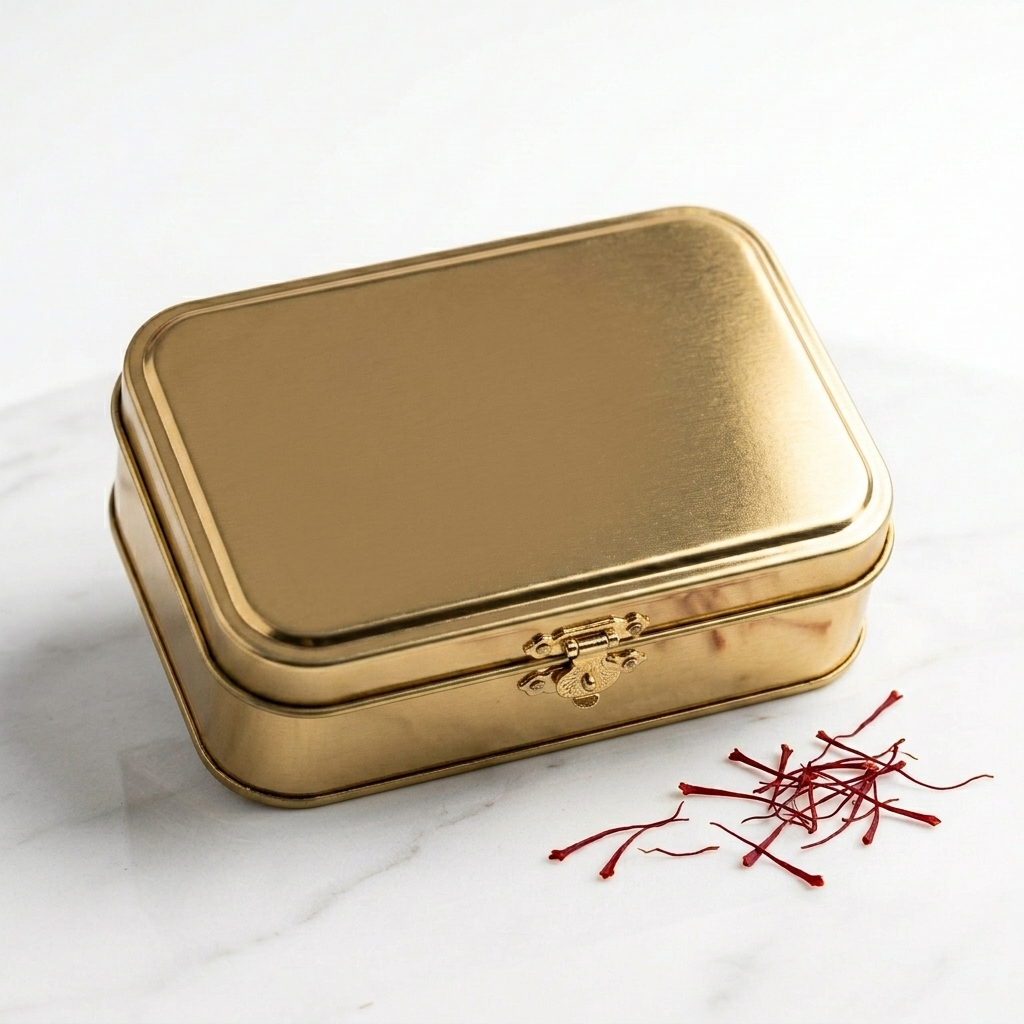
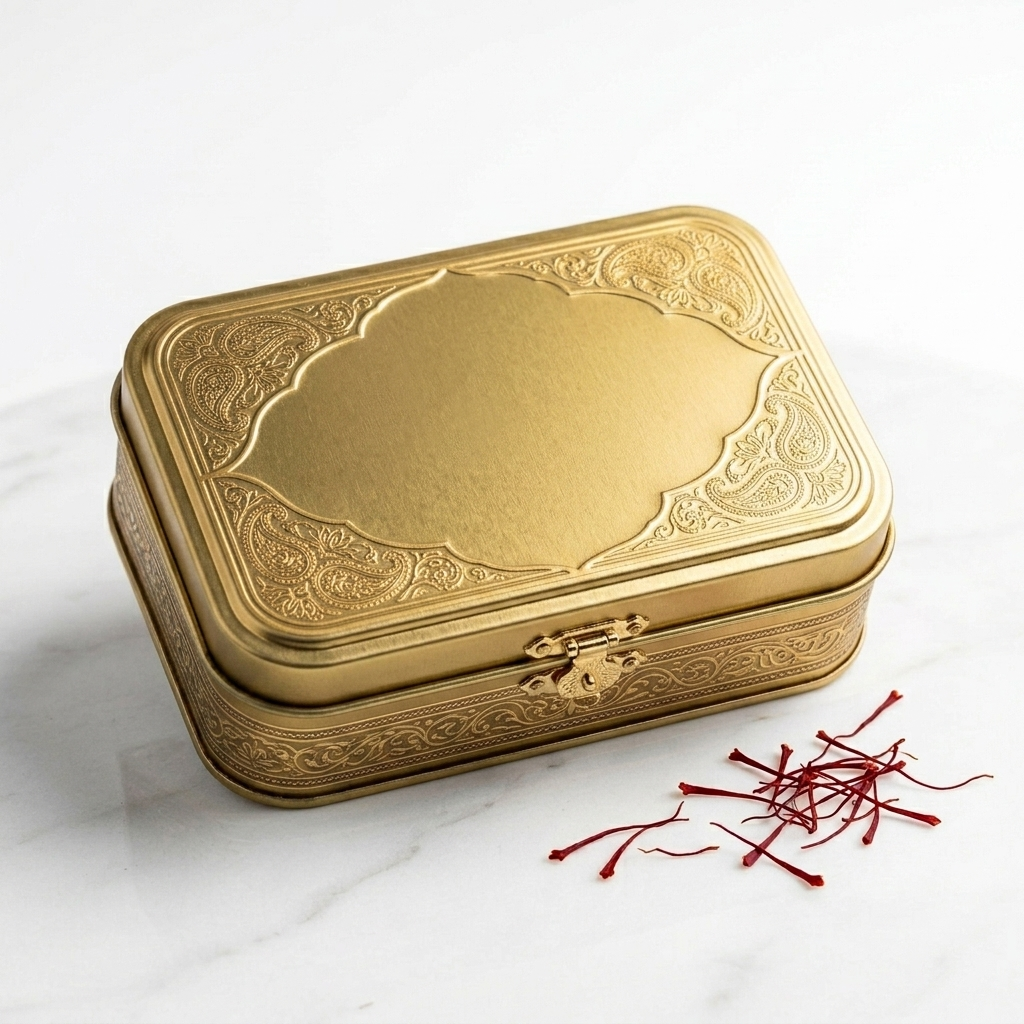
Optimize hero video transparency, replace saffron gift tin image with unbranded ornamental design, replace emoji placeholders with actual product images and alt tags on all gift landing pages

Changed region(s): [[0.0938, 0.1875, 0.875, 0.7812]]

diff --git a/src/app/diwali-gift-kashmir/page.tsx b/src/app/diwali-gift-kashmir/page.tsx
@@ -1,5 +1,6 @@
 import type { Metadata } from "next";
 import Link from "next/link";
+import Image from "next/image";
 export const metadata: Metadata = {
   title: "Diwali Gifts from Kashmir | Kashmir Essence — Saffron, Dry Fruits & Honey Gift Sets",
   description: "Premium Diwali gifts from Kashmir — GI-Tagged saffron tins, Mamra almond hampers, Kashmir honey and dry fruit gift sets. The most meaningful Diwali gifts. Shipping India & worldwide.",
@@ -21,15 +22,17 @@ export default function DiwaliGiftKashmir() {
         <h2 className="text-2xl font-black text-maroon-950 mb-8 text-center">Diwali Gift Collections</h2>
         <div className="grid sm:grid-cols-2 md:grid-cols-3 gap-5">
           {[
-            ["✨", "Kashmir Saffron Gift Tin", "The statement gift — 5g Mongra saffron in a premium tin. The luxury Diwali gift that anyone will remember.", "₹4,549", "/products/kashmiri-saffron-gift-tin"],
-            ["🎁", "Kashmir Dry Fruit Gift Box (Classic)", "Mamra almonds + Kashmiri walnuts + Kashmir saffron — the complete premium festive hamper.", "₹4,099", "/products/kashmiri-dry-fruit-gift-box"],
-            ["🪨", "Mamra Almond Box", "250g premium Mamra almonds in Diwali gift packaging. The gold standard Diwali dry fruit gift.", "₹700", "/products/mamra-almonds-premium"],
-            ["🍯", "Raw Kashmir Honey", "500g raw alpine honey in glass jar — a pure, wholesome Diwali gift.", "₹1,000", "/products/kashmiri-wildflower-honey"],
-            ["🫖", "Kahwa Gift Set", "Premium Kashmiri Kahwa blend — the warmth of Kashmir in a cup. Perfect gifting.", "₹399", "/products/kashmiri-kahwa-blend"],
-            ["🏔️", "Himalayan Shilajit", "A bold wellness gift — pure Himalayan Shilajit resin for health-conscious recipients.", "₹1,299", "/products/himalayan-shilajit-resin"]
-          ].map(([e,n,d,p,l])=>(
+            ["/images/saffron-gift-tin.jpg", "Kashmir Saffron Gift Tin (5g)", "The statement gift — 5g Mongra saffron in a premium tin. The luxury Diwali gift that anyone will remember.", "₹4,549", "/products/kashmiri-saffron-gift-tin"],
+            ["/images/dry-fruit-gift-box.jpg", "Kashmir Dry Fruit Gift Box (Classic)", "Mamra almonds + Kashmiri walnuts + Kashmir saffron — the complete premium festive hamper.", "₹4,099", "/products/kashmiri-dry-fruit-gift-box"],
+            ["/images/mamra-almonds-250.jpg", "Mamra Almond Box", "250g premium Mamra almonds in Diwali gift packaging. The gold standard Diwali dry fruit gift.", "₹700", "/products/mamra-almonds-premium"],
+            ["/images/kashmir-wildflower-honey.jpg", "Raw Kashmir Honey", "500g raw alpine honey in glass jar — a pure, wholesome Diwali gift.", "₹1,000", "/products/kashmiri-wildflower-honey"],
+            ["/images/kashmiri-kahwa-blend.jpg", "Kahwa Gift Set", "Premium Kashmiri Kahwa blend — the warmth of Kashmir in a cup. Perfect gifting.", "₹399", "/products/kashmiri-kahwa-blend"],
+            ["/images/shilajit-resin.jpg", "Himalayan Shilajit", "A bold wellness gift — pure Himalayan Shilajit resin for health-conscious recipients.", "₹1,299", "/products/himalayan-shilajit-resin"]
+          ].map(([img,n,d,p,l])=>(
             <div key={String(n)} className="bg-white border border-ivory-200 rounded-3xl p-6 shadow-sm hover:shadow-lg hover:-translate-y-0.5 transition-all flex flex-col">
-              <span className="text-5xl mb-4 block text-center">{String(e)}</span>
+              <div className="relative h-48 w-full rounded-2xl overflow-hidden mb-4 bg-ivory-100 border border-ivory-200">
+                <Image src={String(img)} alt={`Premium ${String(n)} from Kashmir`} fill className="object-cover" sizes="(max-width: 768px) 100vw, 33vw" priority />
+              </div>
               <h3 className="font-extrabold text-maroon-950 text-base mb-2 text-center">{String(n)}</h3>
               <p className="text-ink-500 text-xs leading-relaxed mb-4 text-center flex-1">{String(d)}</p>
               <p className="text-xl font-black text-maroon-950 text-center mb-4">{String(p)}</p>

diff --git a/src/app/eid-gift-kashmir/page.tsx b/src/app/eid-gift-kashmir/page.tsx
@@ -1,5 +1,6 @@
 import type { Metadata } from "next";
 import Link from "next/link";
+import Image from "next/image";
 
 export const metadata: Metadata = {
   title: "Eid Gifts from Kashmir | Kashmir Essence — Saffron, Shilajit & Dry Fruit Gift Sets",
@@ -27,15 +28,17 @@ export default function EidGiftKashmir() {
         <h2 className="text-2xl font-black text-maroon-950 mb-8 text-center">Popular Eid Gift Options</h2>
         <div className="grid sm:grid-cols-2 md:grid-cols-3 gap-5">
           {[
-            { emoji: "✨", name: "Kashmiri Saffron Gift Tin (5g)", desc: "5g Mongra saffron in a premium velvet-lined gold tin. The ultimate luxury Eid gift, cherished for its purity and aroma.", price: "₹4,549", link: "/products/kashmiri-saffron-gift-tin" },
-            { emoji: "🎁", name: "Kashmir Dry Fruit Gift Box", desc: "Classic curated box of premium Mamra almonds, walnut kernels, and Mongra saffron. Hand-wrapped for Eid.", price: "₹4,099", link: "/products/kashmiri-dry-fruit-gift-box" },
-            { emoji: "🪨", name: "Mamra Almond Box", desc: "250g heritage Mamra almonds in premium gift packaging. Beloved by every generation — the traditional Eid dry fruit gift.", price: "₹700", link: "/products/mamra-almonds-premium" },
-            { emoji: "🍯", name: "Kashmir Raw Honey", desc: "500g raw alpine Kashmir honey in a glass jar. A thoughtful, healthy, and premium Eid gift.", price: "₹1,000", link: "/products/kashmiri-wildflower-honey" },
-            { emoji: "🏔️", name: "Himalayan Shilajit Resin", desc: "20g pure Shilajit resin — a unique and deeply meaningful wellness gift for health-conscious recipients.", price: "₹1,299", link: "/products/himalayan-shilajit-resin" },
-            { emoji: "🫖", name: "Kashmiri Kahwa Blend", desc: "100g premium green tea and spice Kahwa blend. The warmth and rich taste of Kashmir in a cup.", price: "₹399", link: "/products/kashmiri-kahwa-blend" },
+            { img: "/images/saffron-gift-tin.jpg", name: "Kashmiri Saffron Gift Tin (5g)", desc: "5g Mongra saffron in a premium velvet-lined gold tin. The ultimate luxury Eid gift, cherished for its purity and aroma.", price: "₹4,549", link: "/products/kashmiri-saffron-gift-tin" },
+            { img: "/images/dry-fruit-gift-box.jpg", name: "Kashmir Dry Fruit Gift Box", desc: "Classic curated box of premium Mamra almonds, walnut kernels, and Mongra saffron. Hand-wrapped for Eid.", price: "₹4,099", link: "/products/kashmiri-dry-fruit-gift-box" },
+            { img: "/images/mamra-almonds-250.jpg", name: "Mamra Almond Box", desc: "250g heritage Mamra almonds in premium gift packaging. Beloved by every generation — the traditional Eid dry fruit gift.", price: "₹700", link: "/products/mamra-almonds-premium" },
+            { img: "/images/kashmir-wildflower-honey.jpg", name: "Kashmir Raw Honey", desc: "500g raw alpine Kashmir honey in a glass jar. A thoughtful, healthy, and premium Eid gift.", price: "₹1,000", link: "/products/kashmiri-wildflower-honey" },
+            { img: "/images/shilajit-resin.jpg", name: "Himalayan Shilajit Resin", desc: "20g pure Shilajit resin — a unique and deeply meaningful wellness gift for health-conscious recipients.", price: "₹1,299", link: "/products/himalayan-shilajit-resin" },
+            { img: "/images/kashmiri-kahwa-blend.jpg", name: "Kashmiri Kahwa Blend", desc: "100g premium green tea and spice Kahwa blend. The warmth and rich taste of Kashmir in a cup.", price: "₹399", link: "/products/kashmiri-kahwa-blend" },
           ].map((p) => (
             <div key={p.name} className="bg-white border border-ivory-200 rounded-3xl p-6 shadow-sm hover:shadow-lg hover:-translate-y-0.5 transition-all flex flex-col">
-              <span className="text-5xl mb-4 block text-center">{p.emoji}</span>
+              <div className="relative h-48 w-full rounded-2xl overflow-hidden mb-4 bg-ivory-100 border border-ivory-200">
+                <Image src={p.img} alt={`Authentic ${p.name} from Kashmir`} fill className="object-cover" sizes="(max-width: 768px) 100vw, 33vw" priority />
+              </div>
               <h3 className="font-extrabold text-maroon-950 text-base mb-2 text-center">{p.name}</h3>
               <p className="text-ink-500 text-xs leading-relaxed mb-4 text-center flex-1">{p.desc}</p>
               <p className="text-xl font-black text-maroon-950 text-center mb-4">{p.price}</p>

diff --git a/src/app/anniversary-gift-kashmir/page.tsx b/src/app/anniversary-gift-kashmir/page.tsx
@@ -1,5 +1,6 @@
 import type { Metadata } from "next";
 import Link from "next/link";
+import Image from "next/image";
 
 export const metadata: Metadata = {
   title: "Anniversary Gifts from Kashmir | Kashmir Essence — Premium Saffron & Dry Fruit Hampers",
@@ -27,12 +28,14 @@ export default function GiftPage() {
         <h2 className="text-2xl font-black text-maroon-950 mb-8 text-center">Popular Anniversary Gift Options</h2>
         <div className="grid sm:grid-cols-2 md:grid-cols-3 gap-5">
           {[
-            { emoji: "✨", name: "Kashmiri Saffron Gift Tin (5g)", desc: "5g premium Mongra saffron in a luxury velvet-lined gold tin. A truly luxurious and meaningful gift.", price: "₹4,549", link: "/products/kashmiri-saffron-gift-tin" },
-            { emoji: "🪨", name: "Mamra Almond Box", desc: "Heritage Mamra almonds in gift-ready packaging. The classic healthy and premium dry fruit gift.", price: "₹700", link: "/products/mamra-almonds-premium" },
-            { emoji: "🎁", name: "Dry Fruit Gift Box", desc: "A classic curated box of Kashmir's finest dry fruits. Perfect for any special occasion.", price: "₹4,099", link: "/products/kashmiri-dry-fruit-gift-box" }
+            { img: "/images/saffron-gift-tin.jpg", name: "Kashmiri Saffron Gift Tin (5g)", desc: "5g premium Mongra saffron in a luxury velvet-lined gold tin. A truly luxurious and meaningful gift.", price: "₹4,549", link: "/products/kashmiri-saffron-gift-tin" },
+            { img: "/images/mamra-almonds-250.jpg", name: "Mamra Almond Box", desc: "Heritage Mamra almonds in gift-ready packaging. The classic healthy and premium dry fruit gift.", price: "₹700", link: "/products/mamra-almonds-premium" },
+            { img: "/images/dry-fruit-gift-box.jpg", name: "Dry Fruit Gift Box", desc: "A classic curated box of Kashmir's finest dry fruits. Perfect for any special occasion.", price: "₹4,099", link: "/products/kashmiri-dry-fruit-gift-box" }
           ].map((p, i) => (
             <div key={i} className="bg-white rounded-3xl p-6 shadow-xl shadow-maroon-900/5 border border-ivory-200 flex flex-col">
-              <div className="text-4xl mb-4 text-center">{p.emoji}</div>
+              <div className="relative h-48 w-full rounded-2xl overflow-hidden mb-4 bg-ivory-100 border border-ivory-200">
+                <Image src={p.img} alt={`Authentic ${p.name} from Kashmir`} fill className="object-cover" sizes="(max-width: 768px) 100vw, 33vw" priority />
+              </div>
               <h3 className="text-lg font-black text-maroon-950 text-center mb-2">{p.name}</h3>
               <p className="text-ink-500 text-xs leading-relaxed mb-4 text-center flex-1">{p.desc}</p>
               <p className="text-xl font-black text-maroon-950 text-center mb-4">{p.price}</p>

diff --git a/src/app/birthday-gift-kashmir/page.tsx b/src/app/birthday-gift-kashmir/page.tsx
@@ -1,5 +1,6 @@
 import type { Metadata } from "next";
 import Link from "next/link";
+import Image from "next/image";
 
 export const metadata: Metadata = {
   title: "Birthday Gifts from Kashmir | Kashmir Essence — Unique Saffron & Dry Fruit Hampers",
@@ -27,12 +28,14 @@ export default function GiftPage() {
         <h2 className="text-2xl font-black text-maroon-950 mb-8 text-center">Popular Birthday Gift Options</h2>
         <div className="grid sm:grid-cols-2 md:grid-cols-3 gap-5">
           {[
-            { emoji: "✨", name: "Kashmiri Saffron Gift Tin (5g)", desc: "5g premium Mongra saffron in a luxury velvet-lined gold tin. A truly luxurious and meaningful gift.", price: "₹4,549", link: "/products/kashmiri-saffron-gift-tin" },
-            { emoji: "🪨", name: "Mamra Almond Box", desc: "Heritage Mamra almonds in gift-ready packaging. The classic healthy and premium dry fruit gift.", price: "₹700", link: "/products/mamra-almonds-premium" },
-            { emoji: "🎁", name: "Dry Fruit Gift Box", desc: "A classic curated box of Kashmir's finest dry fruits. Perfect for any special occasion.", price: "₹4,099", link: "/products/kashmiri-dry-fruit-gift-box" }
+            { img: "/images/saffron-gift-tin.jpg", name: "Kashmiri Saffron Gift Tin (5g)", desc: "5g premium Mongra saffron in a luxury velvet-lined gold tin. A truly luxurious and meaningful gift.", price: "₹4,549", link: "/products/kashmiri-saffron-gift-tin" },
+            { img: "/images/mamra-almonds-250.jpg", name: "Mamra Almond Box", desc: "Heritage Mamra almonds in gift-ready packaging. The classic healthy and premium dry fruit gift.", price: "₹700", link: "/products/mamra-almonds-premium" },
+            { img: "/images/dry-fruit-gift-box.jpg", name: "Dry Fruit Gift Box", desc: "A classic curated box of Kashmir's finest dry fruits. Perfect for any special occasion.", price: "₹4,099", link: "/products/kashmiri-dry-fruit-gift-box" }
           ].map((p, i) => (
             <div key={i} className="bg-white rounded-3xl p-6 shadow-xl shadow-maroon-900/5 border border-ivory-200 flex flex-col">
-              <div className="text-4xl mb-4 text-center">{p.emoji}</div>
+              <div className="relative h-48 w-full rounded-2xl overflow-hidden mb-4 bg-ivory-100 border border-ivory-200">
+                <Image src={p.img} alt={`Authentic ${p.name} from Kashmir`} fill className="object-cover" sizes="(max-width: 768px) 100vw, 33vw" priority />
+              </div>
               <h3 className="text-lg font-black text-maroon-950 text-center mb-2">{p.name}</h3>
               <p className="text-ink-500 text-xs leading-relaxed mb-4 text-center flex-1">{p.desc}</p>
               <p className="text-xl font-black text-maroon-950 text-center mb-4">{p.price}</p>

diff --git a/src/app/friend-gift-kashmir/page.tsx b/src/app/friend-gift-kashmir/page.tsx
@@ -1,5 +1,6 @@
 import type { Metadata } from "next";
 import Link from "next/link";
+import Image from "next/image";
 
 export const metadata: Metadata = {
   title: "Gifts for Friends from Kashmir | Kashmir Essence — Unique Saffron & Dry Fruit Hampers",
@@ -27,12 +28,14 @@ export default function GiftPage() {
         <h2 className="text-2xl font-black text-maroon-950 mb-8 text-center">Popular Gift Options for Friends</h2>
         <div className="grid sm:grid-cols-2 md:grid-cols-3 gap-5">
           {[
-            { emoji: "✨", name: "Kashmiri Saffron Gift Tin (5g)", desc: "5g premium Mongra saffron in a luxury velvet-lined gold tin. A truly luxurious and meaningful gift.", price: "₹4,549", link: "/products/kashmiri-saffron-gift-tin" },
-            { emoji: "🪨", name: "Mamra Almond Box", desc: "Heritage Mamra almonds in gift-ready packaging. The classic healthy and premium dry fruit gift.", price: "₹700", link: "/products/mamra-almonds-premium" },
-            { emoji: "🎁", name: "Dry Fruit Gift Box", desc: "A classic curated box of Kashmir's finest dry fruits. Perfect for any special occasion.", price: "₹4,099", link: "/products/kashmiri-dry-fruit-gift-box" }
+            { img: "/images/saffron-gift-tin.jpg", name: "Kashmiri Saffron Gift Tin (5g)", desc: "5g premium Mongra saffron in a luxury velvet-lined gold tin. A truly luxurious and meaningful gift.", price: "₹4,549", link: "/products/kashmiri-saffron-gift-tin" },
+            { img: "/images/mamra-almonds-250.jpg", name: "Mamra Almond Box", desc: "Heritage Mamra almonds in gift-ready packaging. The classic healthy and premium dry fruit gift.", price: "₹700", link: "/products/mamra-almonds-premium" },
+            { img: "/images/dry-fruit-gift-box.jpg", name: "Dry Fruit Gift Box", desc: "A classic curated box of Kashmir's finest dry fruits. Perfect for any special occasion.", price: "₹4,099", link: "/products/kashmiri-dry-fruit-gift-box" }
           ].map((p, i) => (
             <div key={i} className="bg-white rounded-3xl p-6 shadow-xl shadow-maroon-900/5 border border-ivory-200 flex flex-col">
-              <div className="text-4xl mb-4 text-center">{p.emoji}</div>
+              <div className="relative h-48 w-full rounded-2xl overflow-hidden mb-4 bg-ivory-100 border border-ivory-200">
+                <Image src={p.img} alt={`Authentic ${p.name} from Kashmir`} fill className="object-cover" sizes="(max-width: 768px) 100vw, 33vw" priority />
+              </div>
               <h3 className="text-lg font-black text-maroon-950 text-center mb-2">{p.name}</h3>
               <p className="text-ink-500 text-xs leading-relaxed mb-4 text-center flex-1">{p.desc}</p>
               <p className="text-xl font-black text-maroon-950 text-center mb-4">{p.price}</p>

diff --git a/src/app/page.tsx b/src/app/page.tsx
@@ -225,7 +225,7 @@ export default function HomePage() {
         <video autoPlay muted loop playsInline preload="metadata" className="absolute inset-0 w-full h-full object-cover opacity-100 pointer-events-none" poster="/images/hero-poster.jpg">
           <source src="/videos/kashmir-hero-opt.mp4" type="video/mp4" />
         </video>
-        <div className="absolute inset-0 bg-gradient-to-b from-black/60 via-black/30 to-maroon-950/90" />
+        <div className="absolute inset-0 bg-gradient-to-b from-black/40 via-transparent to-maroon-950/50" />
         <div className="absolute top-1/3 right-1/4 w-96 h-96 bg-gold-500/10 rounded-full blur-[120px] pointer-events-none" />
 
         <div className="relative z-10 max-w-5xl mx-auto px-6 text-center py-28">